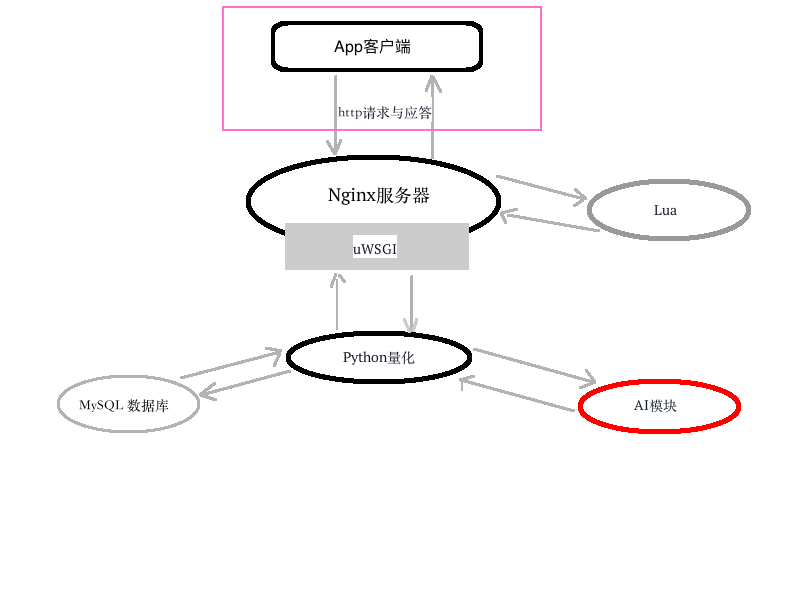
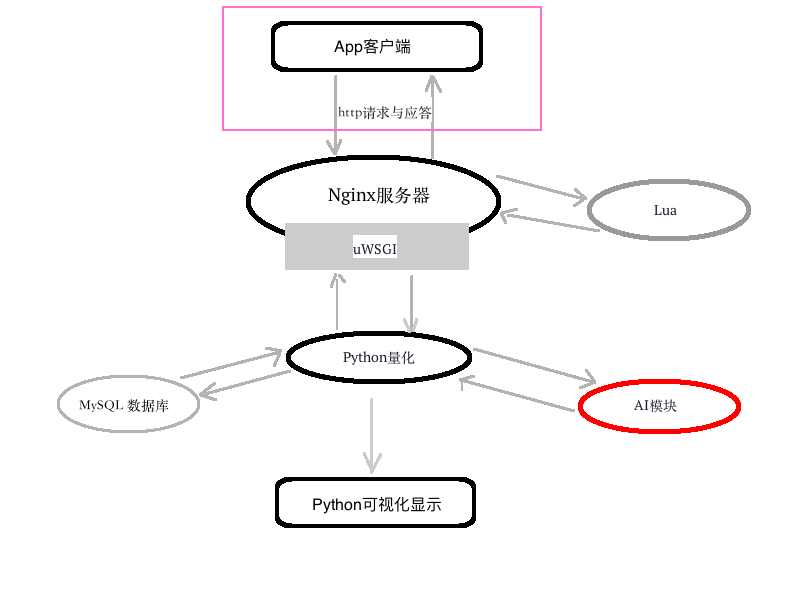
更新系统框架图

Changed region(s): [[0.3438, 0.66, 0.5938, 0.9]]

diff --git a/README.md b/README.md
@@ -2,12 +2,14 @@
 
 ## 项目说明
 本项目的目的是用程序的手段实现交易策略的量化.
+
 该量化系统具备以下几个特点:
 * 实时性:数据每隔固定时间从tushare中获取最新行情数据.
 * 自动化:由程序自动判断买卖点进行自动交易.
 * 智能化:由AI模块对当前获得的数据进行分析, 然后结果以AI因子的方式反馈给量化系统.
-* 可实盘化:通过当下的数据来进行买卖,只要委托买入的单子股数不大就不会出现买不到的情况.
+* 可视化:App和python可视化界面.
 * 高效性:基于Nginx作为服务后台.
+* 可实盘化:通过当下的数据来进行买卖,只要委托买入的单子股数不大就不会出现买不到的情况.
 * 可扩展性:根据配置的多样性,可实现多个不同的策略,本系统也可以通过接入lua实现更为多样的需求.
 
 ## 项目框架图
@@ -17,4 +19,4 @@
 本项目会逐步量化市面上流行的炒股方法,如:
 * 缠论
 * 涨停板战法
-......
+* ......
